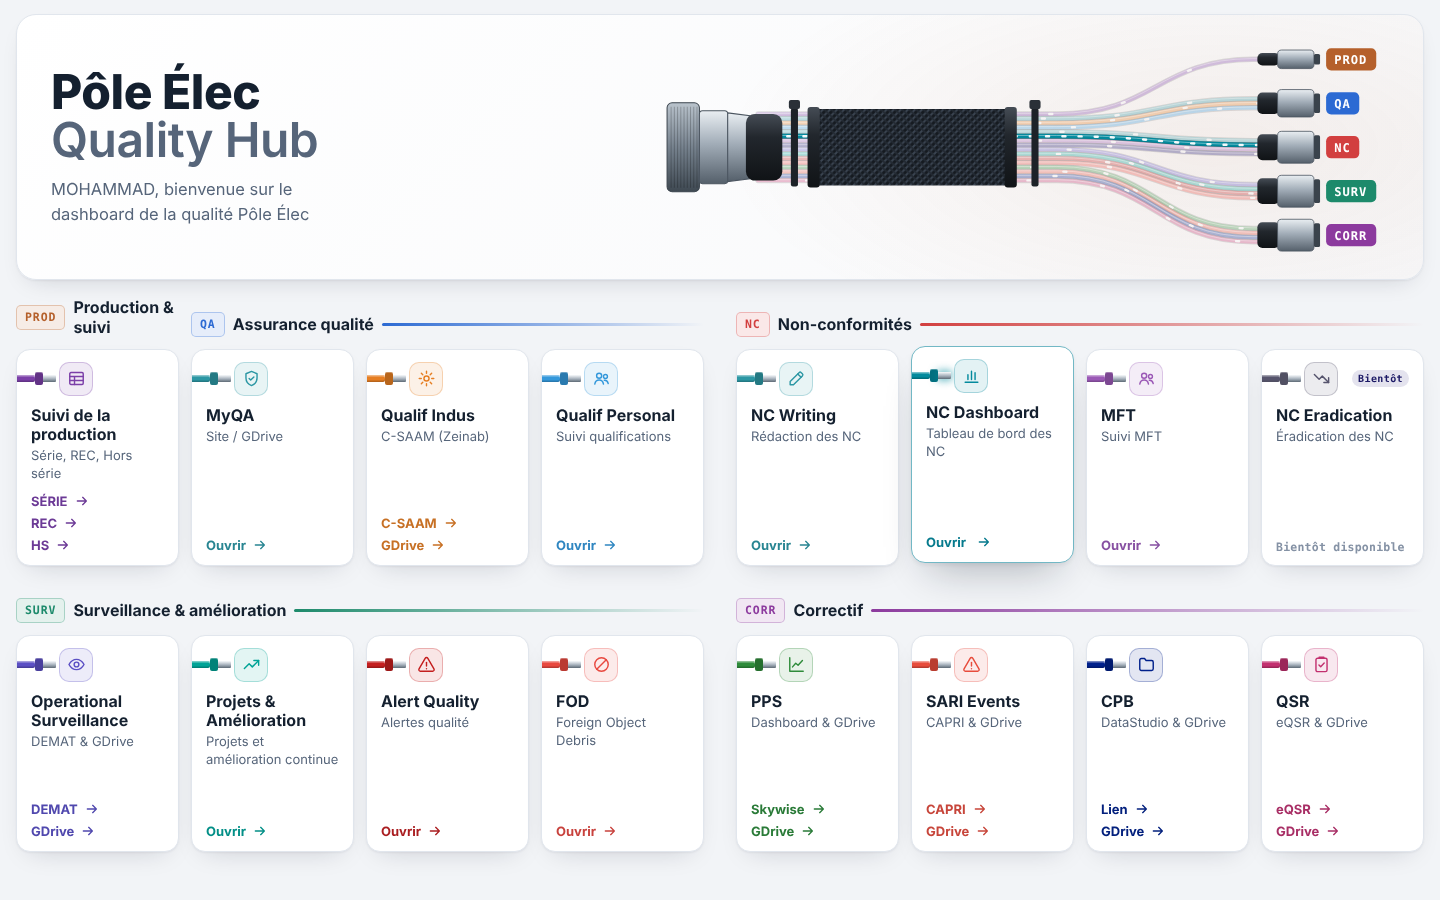
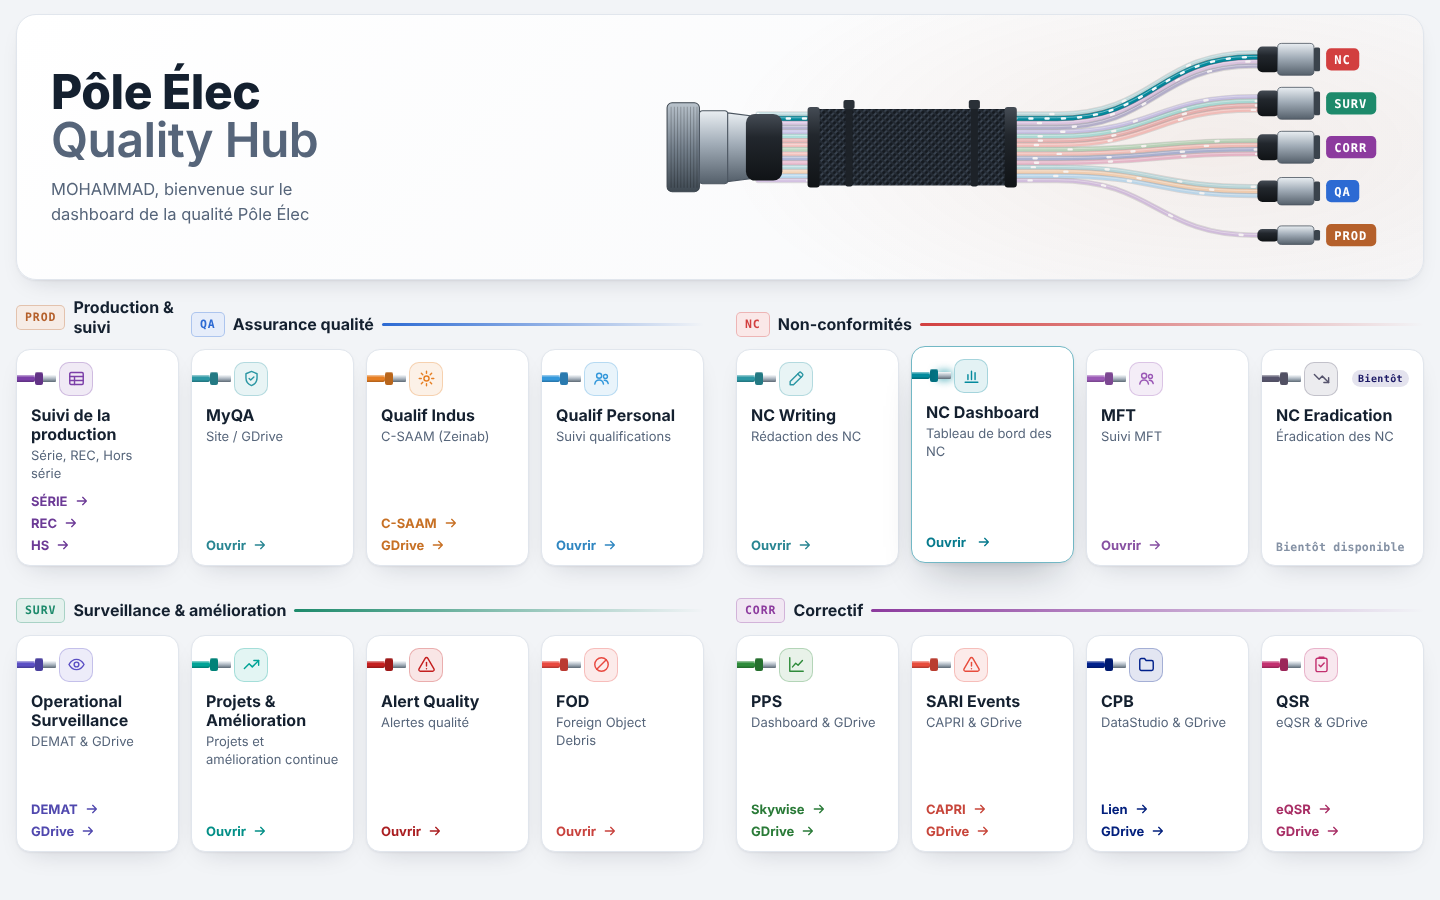
Hub drawing: tie-wraps on the sleeve, biggest branches on top
The two tie-wraps now sit on the black braided sleeve instead of the
loose wires either side. Branches are drawn by size: the groups with
four tools at the top, then three, the single wire (PROD) at the
bottom; each wire keeps its card's id, so hovering a card still lights
the right wire. Page order of the groups is unchanged.

Claude-Session: https://claude.ai/code/session_017pLD4XkEhj6BKkNzrEKz3H

Changed region(s): [[0.6875, 0.0311, 0.9688, 0.28], [0.5312, 0.1244, 0.5625, 0.2178]]

diff --git a/09_pole_elec_hub/hub/pole_elec_hub.html b/09_pole_elec_hub/hub/pole_elec_hub.html
@@ -374,9 +374,14 @@ if(!C||!Array.isArray(C.groups)){
   layout();
   addEventListener("resize",layout);
 
-  // hero harness: connector, sleeve and tie-wraps on the trunk, one branch per group, one wire per tool
+  // hero harness: connector, sleeve with its tie-wraps on the trunk, one branch per group, one wire per
+  // tool. Branches are drawn biggest first (most tools at the top, a single wire at the bottom); each
+  // wire keeps the id of its card so hovering the card lights it.
   (function(){
-    const groups=C.groups.filter(g=>(g.tools||[]).length), N=groups.reduce((a,g)=>a+g.tools.length,0);
+    let n0=0;
+    const groups=C.groups.map(g=>({g, tools:(g.tools||[]).map(t=>({t, id:"t"+(n0++)}))}))
+      .filter(x=>x.tools.length).sort((a,b)=>b.tools.length-a.tools.length);
+    const N=groups.reduce((a,x)=>a+x.tools.length,0);
     const G=Math.min(5.2,70/Math.max(N,1)), Y=115, X0=96, XB=392, XE=596, top0=28, top1=202;
     const lane=i=>Y+(i-(N-1)/2)*G;
     const by=groups.map((g,i)=>groups.length===1?Y:top0+i*(top1-top0)/(groups.length-1));
@@ -386,12 +391,12 @@ if(!C||!Array.isArray(C.groups)){
       +'<linearGradient id="nut" x1="0" y1="0" x2="0" y2="1"><stop offset="0" stop-color="#b9c3cc"/><stop offset=".5" stop-color="#76828e"/><stop offset="1" stop-color="#3f4952"/></linearGradient>'
       +'<linearGradient id="boot" x1="0" y1="0" x2="0" y2="1"><stop offset="0" stop-color="#454c55"/><stop offset=".35" stop-color="#22272d"/><stop offset="1" stop-color="#101316"/></linearGradient></defs>';
     let i=0, k0=0, wires="", ends="";
-    groups.forEach((g,gi)=>{
-      const k=g.tools.length;
-      g.tools.forEach((t,j)=>{
+    groups.forEach(({g,tools},gi)=>{
+      const k=tools.length;
+      tools.forEach(({t,id},j)=>{
         const y0=lane(i), y1=by[gi]+(j-(k-1)/2)*G;
         const d="M"+X0+","+y0+" H"+XB+" C"+(XB+96)+","+y0+" "+(XE-104)+","+y1+" "+(XE-10)+","+y1+" H"+(XE+12);
-        wires+='<g class="hw" id="hw-t'+i+'" style="--w:'+esc(t.color||g.color||"#8592a5")+';--d:'+(2.2+((i*7)%5)*.35).toFixed(2)+'s;--dl:-'+((i*0.37)%2).toFixed(2)+'s">'
+        wires+='<g class="hw" id="hw-'+id+'" style="--w:'+esc(t.color||g.color||"#8592a5")+';--d:'+(2.2+((i*7)%5)*.35).toFixed(2)+'s;--dl:-'+((i*0.37)%2).toFixed(2)+'s">'
           +'<path class="o" d="'+d+'"/><path class="b" d="'+d+'"/><path class="h" d="'+d+'" transform="translate(-.6 -.7)"/><path class="p" d="'+d+'"/></g>';
         i++;
       });
@@ -412,7 +417,7 @@ if(!C||!Array.isArray(C.groups)){
       +'<rect x="84" y="'+(yc-33)+'" width="36" height="66" rx="9" fill="url(#boot)"/>';
     const sleeve='<rect x="150" y="'+t0+'" width="196" height="'+(t1-t0)+'" rx="6" fill="url(#braid)"/>'
       +'<rect x="145" y="'+(t0-2)+'" width="12" height="'+(t1-t0+4)+'" rx="3" fill="url(#boot)"/><rect x="340" y="'+(t0-2)+'" width="12" height="'+(t1-t0+4)+'" rx="3" fill="url(#boot)"/>';
-    $("#harness").innerHTML=defs+wires+sleeve+tie(132)+tie(370)+conn+ends;
+    $("#harness").innerHTML=defs+wires+sleeve+tie(186)+tie(310)+conn+ends;
   })();
 
   // a card lights its own wire in the harness

diff --git a/09_pole_elec_hub/slate/hub.js b/09_pole_elec_hub/slate/hub.js
@@ -228,9 +228,14 @@ if(!C||!Array.isArray(C.groups)){
   layout();
   addEventListener("resize",layout);
 
-  // hero harness: connector, sleeve and tie-wraps on the trunk, one branch per group, one wire per tool
+  // hero harness: connector, sleeve with its tie-wraps on the trunk, one branch per group, one wire per
+  // tool. Branches are drawn biggest first (most tools at the top, a single wire at the bottom); each
+  // wire keeps the id of its card so hovering the card lights it.
   (function(){
-    const groups=C.groups.filter(g=>(g.tools||[]).length), N=groups.reduce((a,g)=>a+g.tools.length,0);
+    let n0=0;
+    const groups=C.groups.map(g=>({g, tools:(g.tools||[]).map(t=>({t, id:"t"+(n0++)}))}))
+      .filter(x=>x.tools.length).sort((a,b)=>b.tools.length-a.tools.length);
+    const N=groups.reduce((a,x)=>a+x.tools.length,0);
     const G=Math.min(5.2,70/Math.max(N,1)), Y=115, X0=96, XB=392, XE=596, top0=28, top1=202;
     const lane=i=>Y+(i-(N-1)/2)*G;
     const by=groups.map((g,i)=>groups.length===1?Y:top0+i*(top1-top0)/(groups.length-1));
@@ -240,12 +245,12 @@ if(!C||!Array.isArray(C.groups)){
       +'<linearGradient id="nut" x1="0" y1="0" x2="0" y2="1"><stop offset="0" stop-color="#b9c3cc"/><stop offset=".5" stop-color="#76828e"/><stop offset="1" stop-color="#3f4952"/></linearGradient>'
       +'<linearGradient id="boot" x1="0" y1="0" x2="0" y2="1"><stop offset="0" stop-color="#454c55"/><stop offset=".35" stop-color="#22272d"/><stop offset="1" stop-color="#101316"/></linearGradient></defs>';
     let i=0, k0=0, wires="", ends="";
-    groups.forEach((g,gi)=>{
-      const k=g.tools.length;
-      g.tools.forEach((t,j)=>{
+    groups.forEach(({g,tools},gi)=>{
+      const k=tools.length;
+      tools.forEach(({t,id},j)=>{
         const y0=lane(i), y1=by[gi]+(j-(k-1)/2)*G;
         const d="M"+X0+","+y0+" H"+XB+" C"+(XB+96)+","+y0+" "+(XE-104)+","+y1+" "+(XE-10)+","+y1+" H"+(XE+12);
-        wires+='<g class="hw" id="hw-t'+i+'" style="--w:'+esc(t.color||g.color||"#8592a5")+';--d:'+(2.2+((i*7)%5)*.35).toFixed(2)+'s;--dl:-'+((i*0.37)%2).toFixed(2)+'s">'
+        wires+='<g class="hw" id="hw-'+id+'" style="--w:'+esc(t.color||g.color||"#8592a5")+';--d:'+(2.2+((i*7)%5)*.35).toFixed(2)+'s;--dl:-'+((i*0.37)%2).toFixed(2)+'s">'
           +'<path class="o" d="'+d+'"/><path class="b" d="'+d+'"/><path class="h" d="'+d+'" transform="translate(-.6 -.7)"/><path class="p" d="'+d+'"/></g>';
         i++;
       });
@@ -266,7 +271,7 @@ if(!C||!Array.isArray(C.groups)){
       +'<rect x="84" y="'+(yc-33)+'" width="36" height="66" rx="9" fill="url(#boot)"/>';
     const sleeve='<rect x="150" y="'+t0+'" width="196" height="'+(t1-t0)+'" rx="6" fill="url(#braid)"/>'
       +'<rect x="145" y="'+(t0-2)+'" width="12" height="'+(t1-t0+4)+'" rx="3" fill="url(#boot)"/><rect x="340" y="'+(t0-2)+'" width="12" height="'+(t1-t0+4)+'" rx="3" fill="url(#boot)"/>';
-    $("#harness").innerHTML=defs+wires+sleeve+tie(132)+tie(370)+conn+ends;
+    $("#harness").innerHTML=defs+wires+sleeve+tie(186)+tie(310)+conn+ends;
   })();
 
   // a card lights its own wire in the harness
